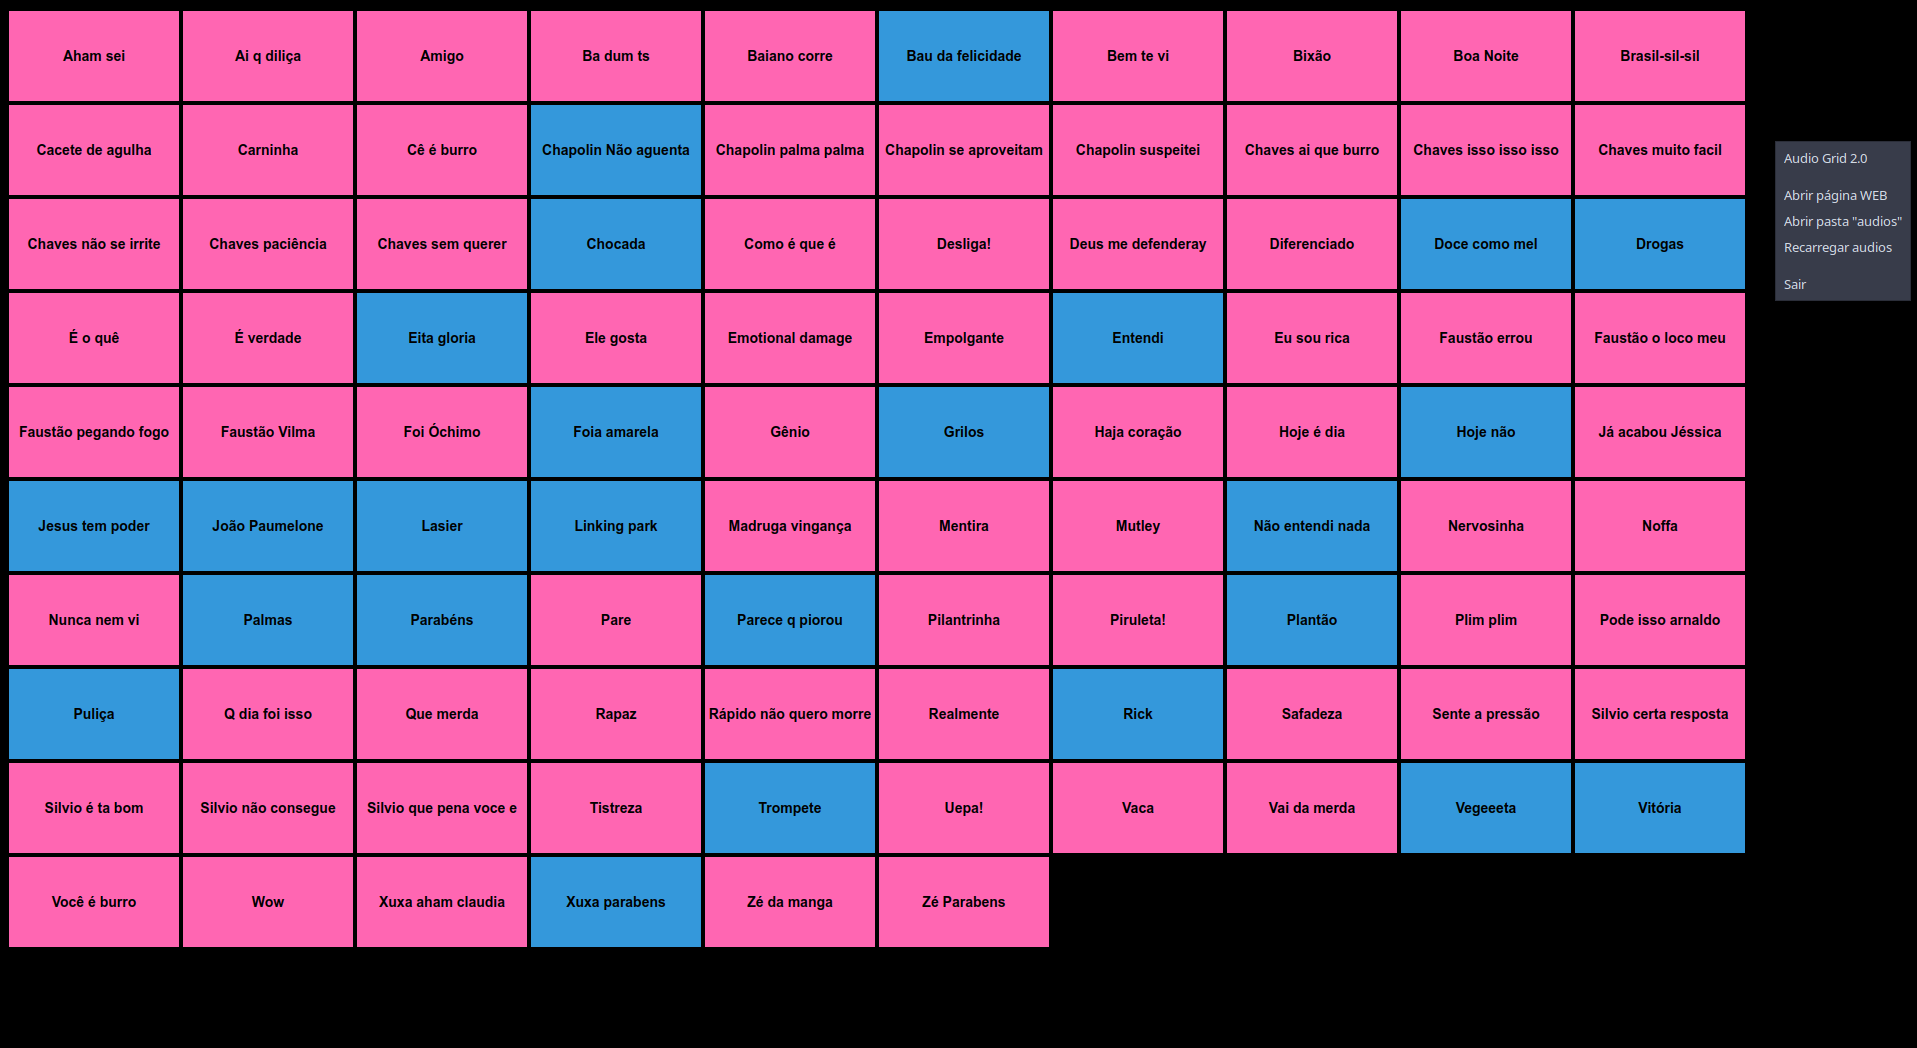
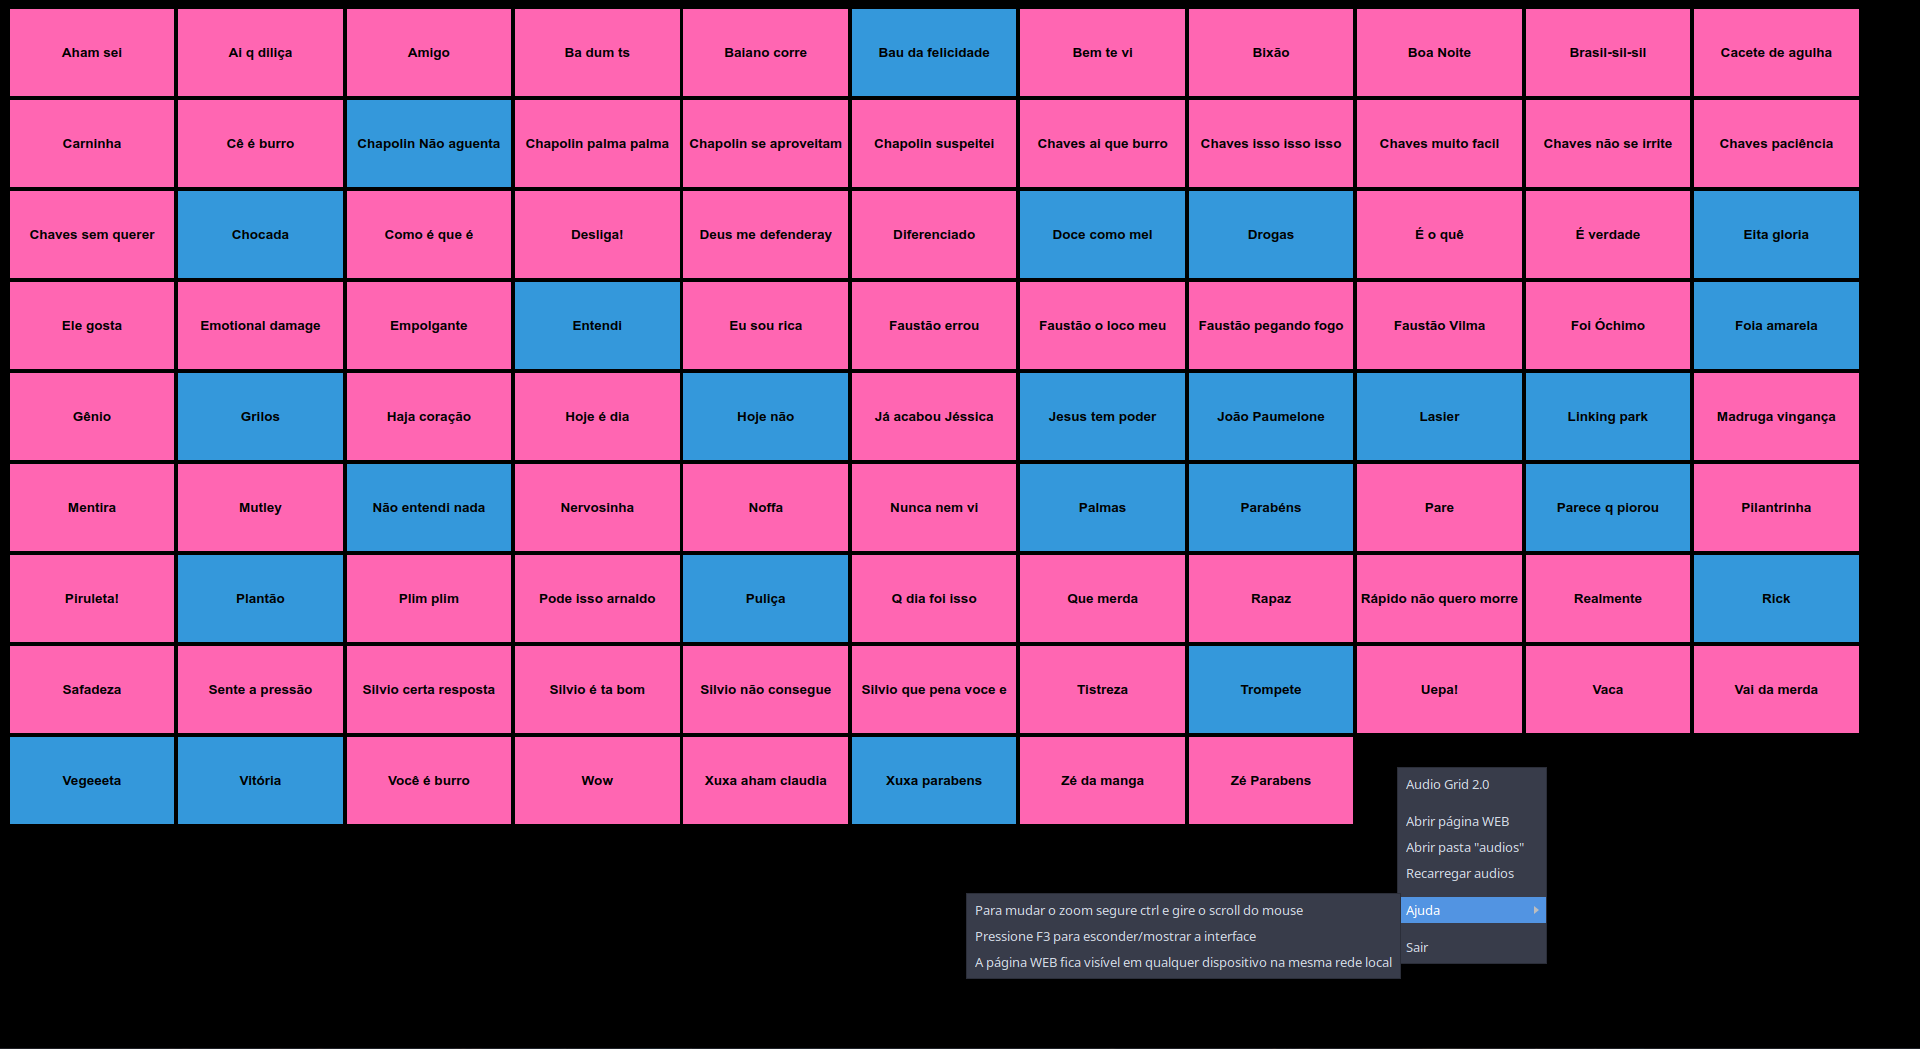
Added ctrl zoom and help

diff --git a/index.js b/index.js
@@ -101,7 +101,7 @@ async function playAudio(name, res) {
             });
         }
     } catch (err) {
-        console.log("playAudio esception: ");
+        console.log("playAudio escxeption: ");
         console.log(err);
     }
 }
@@ -131,7 +131,7 @@ function getAudioNames(res) {
         });
         console.log("after reading folder!");
     } catch (err) {
-        console.log("getAudioNames esception: ");
+        console.log("getAudioNames escxeption: ");
         console.log(err);
     }
 }
@@ -161,7 +161,7 @@ function parseProperties(propertiesString) {
         });
         return properties;
     } catch (err) {
-        console.log("parseProperties esception: ");
+        console.log("parseProperties escxeption: ");
         console.log(err);
     }
 }
@@ -184,7 +184,7 @@ function startServer() {
             console.log(`Servidor escutando em http://${localIP}:${port}`);
         });
     } catch (err) {
-        console.log("startServer esception: ");
+        console.log("startServer escxeption: ");
         console.log(err);
     }
 }
@@ -252,19 +252,61 @@ function createWindow() {
             },
             {type: 'separator'},
             {
+                label: i18nTexts.help,
+                submenu: [
+                    {
+                        label: i18nTexts.help_zoom
+                    },
+                    {
+                        label: i18nTexts.help_show_hide
+                    },
+                    {
+                        label: i18nTexts.help_web_interface
+                    }
+                ]
+            },
+            {type: 'separator'},
+            {
                 label: i18nTexts.exit,
                 click: () => {
                     app.quit();
                 },
             },
+
         ];
 
         const contextMenuInstance = Menu.buildFromTemplate(contextMenuTemplate);
         mainWindow.webContents.on('context-menu', () => {
             contextMenuInstance.popup({window: mainWindow});
         });
+
+        mainWindow.webContents.setZoomFactor(1.0);
+
+        mainWindow.webContents
+            .setVisualZoomLevelLimits(1, 5)
+            .catch((err) => console.log(err));
+
+        mainWindow.webContents.on("zoom-changed", (event, zoomDirection) => {
+            console.log(zoomDirection);
+            const currentZoom = mainWindow.webContents.getZoomFactor();
+            console.log("Current Zoom Factor - ", currentZoom);
+            console.log("Current Zoom Level at - ", mainWindow.webContents.zoomLevel);
+
+            if (zoomDirection === "in") {
+                mainWindow.webContents.zoomFactor = currentZoom + 0.01;
+
+                console.log("Zoom Factor Increased to - "
+                    , mainWindow.webContents.zoomFactor * 100, "%");
+            }
+            if (zoomDirection === "out") {
+                mainWindow.webContents.zoomFactor = currentZoom - 0.01;
+
+                console.log("Zoom Factor Decreased to - "
+                    , mainWindow.webContents.zoomFactor * 100, "%");
+            }
+        });
     } catch (err) {
-        console.log("createWindow esception: ");
+        console.log("createWindow escxeption: ");
         console.log(err);
     }
 }
@@ -288,7 +330,7 @@ app.whenReady().then(async () => {
         });
 
     } catch (err) {
-        console.log("app.whenReady esception: ");
+        console.log("app.whenReady escxeption: ");
         console.log(err);
     }
 });
@@ -301,7 +343,7 @@ app.on('activate', function () {
     try {
         if (mainWindow === null) createWindow();
     } catch (err) {
-        console.log("activate esception: ");
+        console.log("activate escxeption: ");
         console.log(err);
     }
 });
@@ -310,7 +352,7 @@ app.on('will-quit', () => {
     try {
         globalShortcut.unregisterAll();
     } catch (err) {
-        console.log("will-quit esception: ");
+        console.log("will-quit escxeption: ");
         console.log(err);
     }
 });
